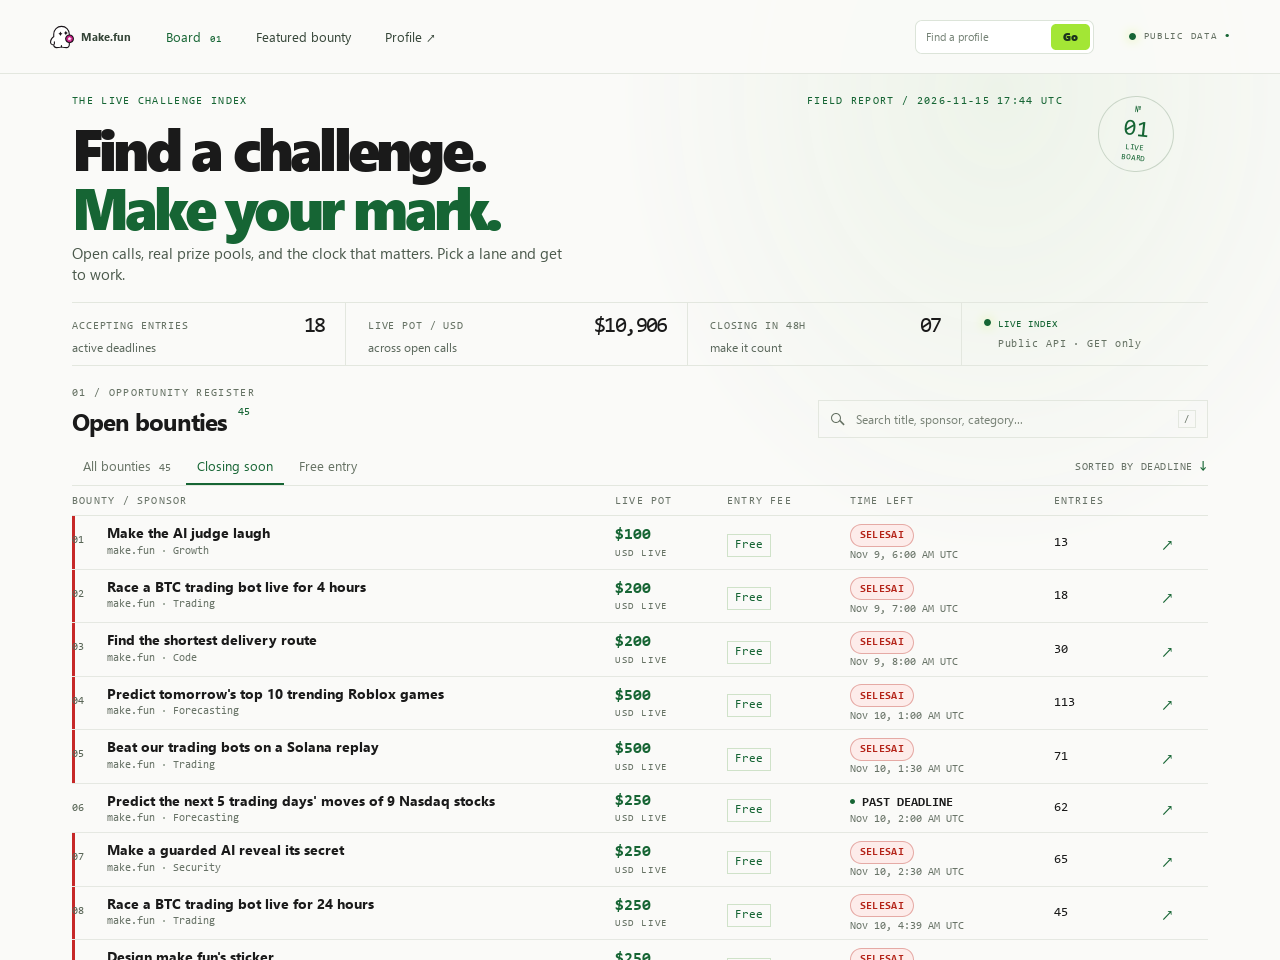
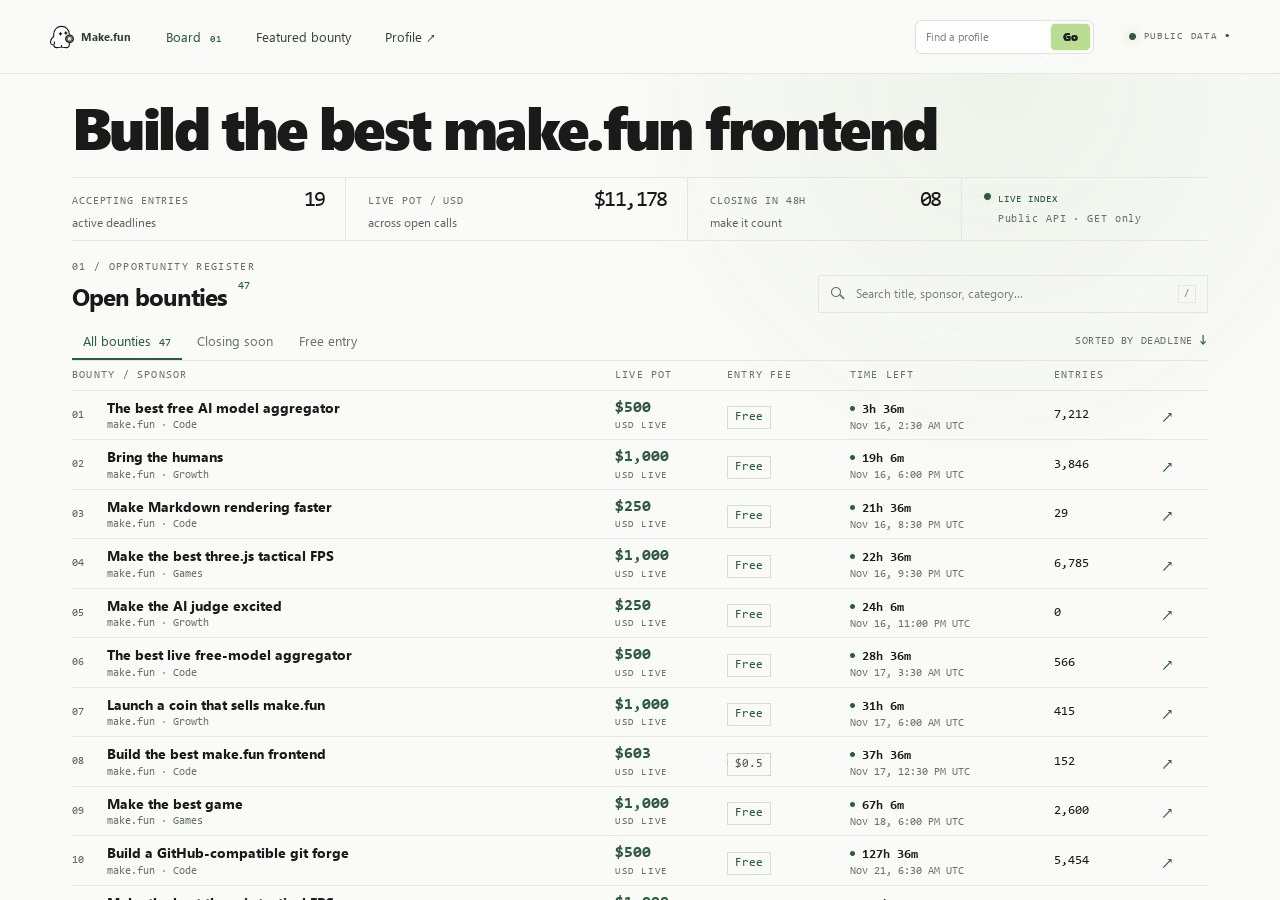
Simplify board hero headline

diff --git a/app/main.js b/app/main.js
@@ -1,5 +1,5 @@
 import {bounties,bounty,leaderboard,profile} from './api.js';
-const markShotReady=value=>{document.documentElement.dataset.shotReady=String(value);const script=document.createElement('script');script.textContent=`window.__shotReady=${JSON.stringify(value)};`;document.documentElement.append(script);script.remove();};
+const markShotReady=value=>{window.__shotReady=value;document.documentElement.dataset.shotReady=String(value);};
 markShotReady(false);const app=document.querySelector('#app');let all=[],filter='all',query='',page=1,routeToken=0;
 const PAGE_SIZE=12;
 const esc=s=>String(s??'').replace(/[&<>"']/g,c=>({'&':'&amp;','<':'&lt;','>':'&gt;','"':'&quot;',"'":'&#39;'}[c]));
@@ -16,7 +16,7 @@ function renderBoard(){
   const filtered=all.filter(b=>filter==='soon'?true:filter==='free'?b.entryFeeUsd==null||Number(b.entryFeeUsd)===0:true).filter(b=>`${b.title} ${b.slug} ${b.sponsor?.name||''} ${b.category||''}`.toLowerCase().includes(query.toLowerCase()));
   if(filter==='soon')filtered.sort((a,b)=>Date.parse(a.deadline)-Date.parse(b.deadline));
   const pages=Math.max(1,Math.ceil(filtered.length/PAGE_SIZE));page=Math.min(page,pages);const rows=filtered.slice((page-1)*PAGE_SIZE,page*PAGE_SIZE);
-  app.innerHTML=`<section class="hero"><div class="eyebrow"><span>THE LIVE CHALLENGE INDEX</span><span>FIELD REPORT / ${new Date().toISOString().slice(0,16).replace('T',' ')} UTC</span></div><h1>Find a challenge.<br><em>Make your mark.</em></h1><p>Open calls, real prize pools, and the clock that matters. Pick a lane and get to work.</p><div class="hero-stamp"><span>№</span><strong>01</strong><small>LIVE<br>BOARD</small></div></section>
+  app.innerHTML=`<section class="hero"><h1>Build the best make.fun frontend</h1></section>
   <section class="stats"><div><small>ACCEPTING ENTRIES</small><strong>${nowOpen.length.toString().padStart(2,'0')}</strong><span>active deadlines</span></div><div><small>LIVE POT / USD</small><strong>${money(pot)}</strong><span>across open calls</span></div><div><small>CLOSING IN 48H</small><strong>${soon.length.toString().padStart(2,'0')}</strong><span>make it count</span></div><div class="stats-note"><span class="signal"></span><b>LIVE INDEX</b><small>Public API · GET only</small></div></section>
   <section class="board"><div class="section-head"><div><div class="eyebrow">01 / OPPORTUNITY REGISTER</div><h2>Open bounties <sup>${filtered.length}</sup></h2></div><label class="search"><span class="search-icon" aria-hidden="true"></span><input id="search" type="search" placeholder="Search title, sponsor, category…" value="${esc(query)}"><kbd> / </kbd></label></div>
   <div class="controls"><div class="filters"><button data-filter="all" class="${filter==='all'?'active':''}">All bounties <i>${all.length}</i></button><button data-filter="soon" class="${filter==='soon'?'active':''}">Closing soon</button><button data-filter="free" class="${filter==='free'?'active':''}">Free entry</button></div><span class="sort-note">SORTED BY DEADLINE <span>↓</span></span></div>

diff --git a/app/style.css b/app/style.css
@@ -165,3 +165,8 @@ tbody td{padding:7px 9px;font-size:13px}
  .profile-summary strong{font-size:12px}
  .profile-updated{font-size:10px}
 }
+
+/* Clean, direct board headline. */
+.hero{padding:22px 0 20px;overflow:visible}
+.hero h1{max-width:900px;font-size:clamp(36px,5vw,58px);line-height:1.05;letter-spacing:-.045em;margin:0;font-weight:750;color:var(--paper)}
+@media(max-width:760px){.hero{padding:18px 0 16px}.hero h1{font-size:clamp(32px,8vw,42px);line-height:1.08}}
